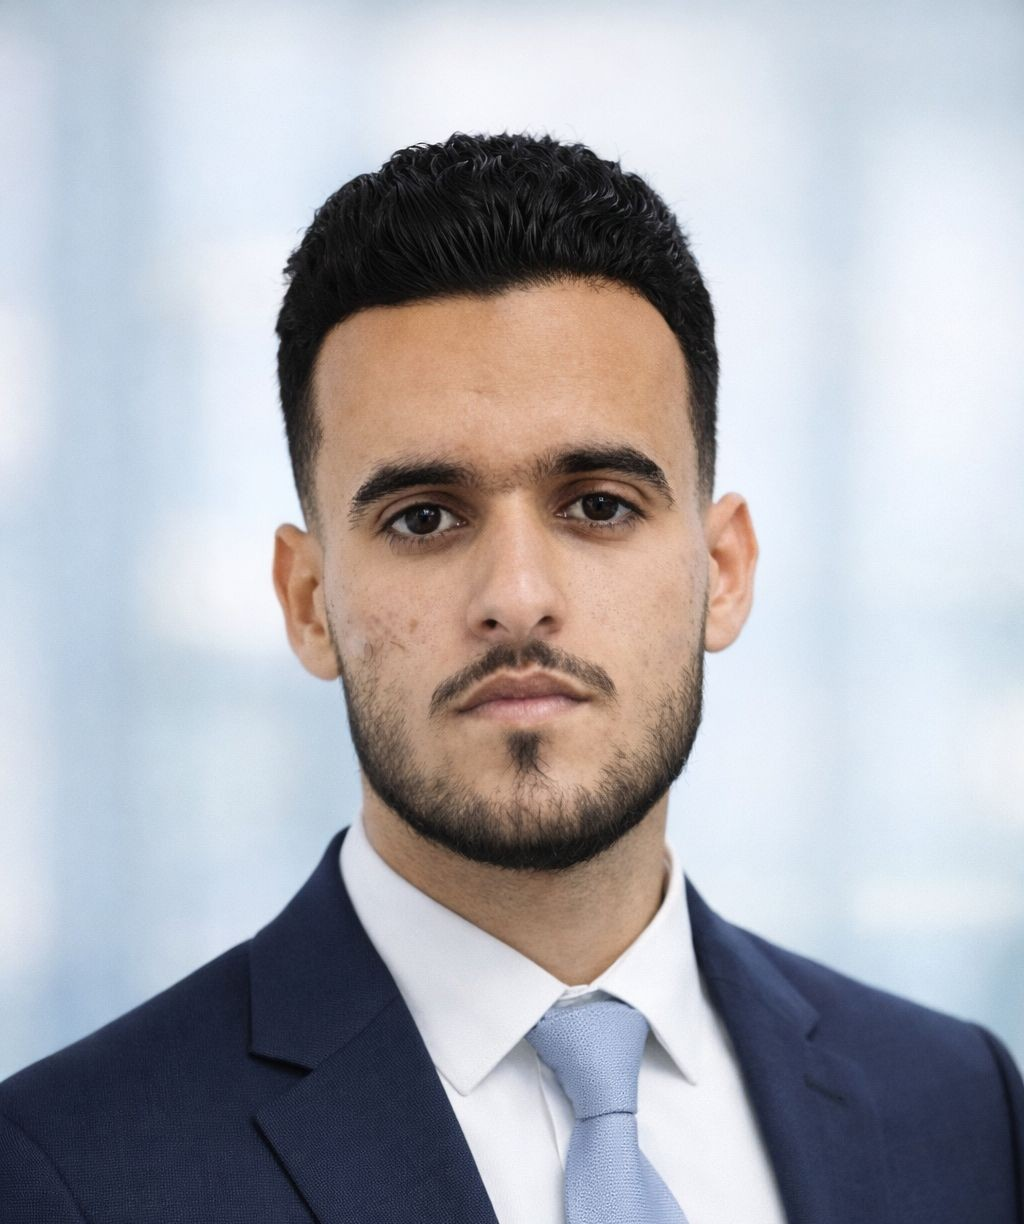
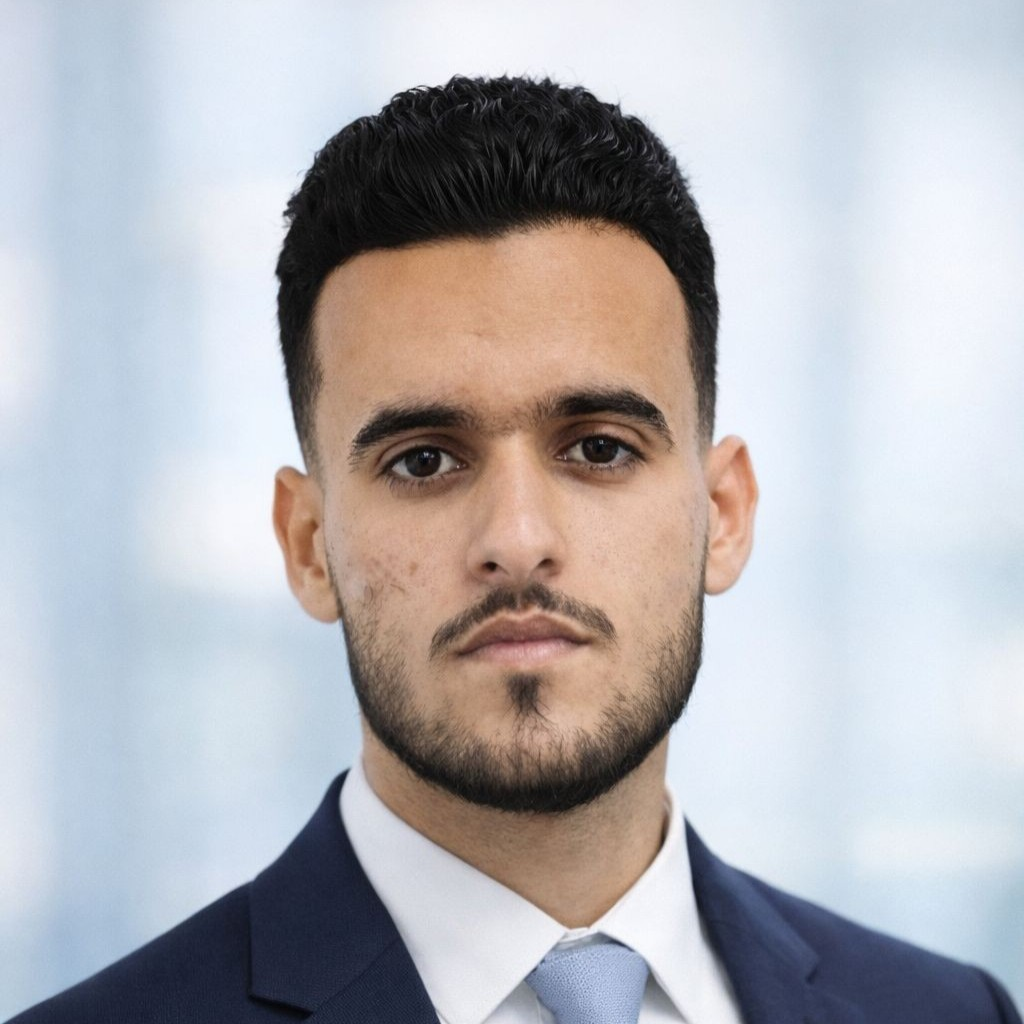
style cards

diff --git a/public/animations.js b/public/animations.js
@@ -22,6 +22,9 @@
     var speed = 60;
     setMarqueeSpeed(skillsTrack, speed);
     setMarqueeSpeed(softSkillsTrack, speed);
+
+    initMarqueeDrag(skillsTrack);
+    initMarqueeDrag(softSkillsTrack);
   }
 
   function initStagger(container) {
@@ -88,6 +91,83 @@
     initHeroStack();
     window.addEventListener('resize', initMarquees);
   });
+
+  function initMarqueeDrag(track) {
+    if (!track) return;
+    if (track.dataset.dragReady) return;
+    track.dataset.dragReady = 'true';
+
+    var marquee = track.parentElement;
+    if (!marquee) return;
+
+    var dragging = false;
+    var startX = 0;
+    var startTranslate = 0;
+
+    function getCurrentTranslateX() {
+      var style = window.getComputedStyle(track);
+      var matrix = style.transform;
+      if (matrix && matrix !== 'none') {
+        var values = matrix.match(/matrix\\(([^)]+)\\)/);
+        if (values && values[1]) {
+          var parts = values[1].split(',');
+          return parseFloat(parts[4]) || 0;
+        }
+      }
+      return 0;
+    }
+
+    function getDurationSeconds() {
+      var style = window.getComputedStyle(track);
+      var dur = style.animationDuration || '0s';
+      return parseFloat(dur) || 0;
+    }
+
+    function onPointerDown(e) {
+      e.preventDefault();
+      dragging = true;
+      marquee.classList.add('is-dragging');
+      track.style.animationPlayState = 'paused';
+      track.style.animationDelay = '0s';
+      startX = e.clientX;
+      startTranslate = getCurrentTranslateX();
+      if (track.setPointerCapture) {
+        track.setPointerCapture(e.pointerId);
+      }
+    }
+
+    function onPointerMove(e) {
+      if (!dragging) return;
+      e.preventDefault();
+      var delta = e.clientX - startX;
+      track.style.transform = 'translateX(' + (startTranslate + delta) + 'px)';
+    }
+
+    function onPointerUp(e) {
+      if (!dragging) return;
+      dragging = false;
+      marquee.classList.remove('is-dragging');
+
+      var current = getCurrentTranslateX();
+      var distance = track.scrollWidth / 2;
+      var duration = getDurationSeconds();
+      if (distance > 0 && duration > 0) {
+        var progress = Math.abs(current) / distance;
+        var delay = -(progress * duration);
+        track.style.animationDelay = delay + 's';
+      }
+
+      track.style.transform = '';
+      track.style.animationPlayState = 'running';
+      if (track.releasePointerCapture) {
+        track.releasePointerCapture(e.pointerId);
+      }
+    }
+
+    track.addEventListener('pointerdown', onPointerDown);
+    window.addEventListener('pointermove', onPointerMove);
+    window.addEventListener('pointerup', onPointerUp);
+  }
 
   function initHeroStack() {
     var stack = document.querySelector('.hero-card-stack');

diff --git a/pages/homepage_developer_portfolio_hub.html b/pages/homepage_developer_portfolio_hub.html
@@ -197,22 +197,19 @@
                     <!-- Profile Card Stack -->
                     <div class="hero-card-stack mx-auto w-80 h-80 lg:w-96 lg:h-96">
                         <div class="hero-card hero-card--front">
-                            <div class="absolute inset-0 bg-gradient-to-br from-primary to-accent rounded-2xl transform rotate-6"></div>
                             <div class="relative bg-white rounded-2xl p-2 shadow-elevated">
-                                <img src="../img/me0.jpeg" alt="Anass - Développeur Full-Stack" class="w-full h-full object-cover rounded-xl" onerror="this.src=''; this.onerror=null;" />
+                                <img src="../img/me.jpg" alt="Anass - Développeur Full-Stack" class="w-full h-full object-cover rounded-xl" onerror="this.src=''; this.onerror=null;" />
                             </div>
                         </div>
                         <div class="hero-card hero-card--back">
-                            <div class="absolute inset-0 bg-gradient-to-br from-primary to-accent rounded-2xl transform rotate-6"></div>
                             <div class="relative bg-white rounded-2xl p-2 shadow-elevated">
                                 <img src="../img/me0.jpeg" alt="Anass - Développeur Full-Stack" class="w-full h-full object-cover rounded-xl" onerror="this.src=''; this.onerror=null;" />
                             </div>
                         </div>
+                        
                     </div>
 
-                    <!-- Background Elements -->
-                    <div class="absolute -z-10 top-10 left-10 w-20 h-20 bg-accent-200 rounded-full opacity-60"></div>
-                    <div class="absolute -z-10 bottom-10 right-10 w-16 h-16 bg-primary-200 rounded-full opacity-60"></div>
+
                 </div>
             </div>
         </div>

diff --git a/css/main.css b/css/main.css
@@ -2599,3 +2599,14 @@ h1, h2, h3, h4, h5, h6 {
   }
 }
 
+/* Marquee drag */
+.skills-marquee {
+  cursor: grab;
+  user-select: none;
+  touch-action: pan-y;
+}
+
+.skills-marquee.is-dragging {
+  cursor: grabbing;
+}
+
